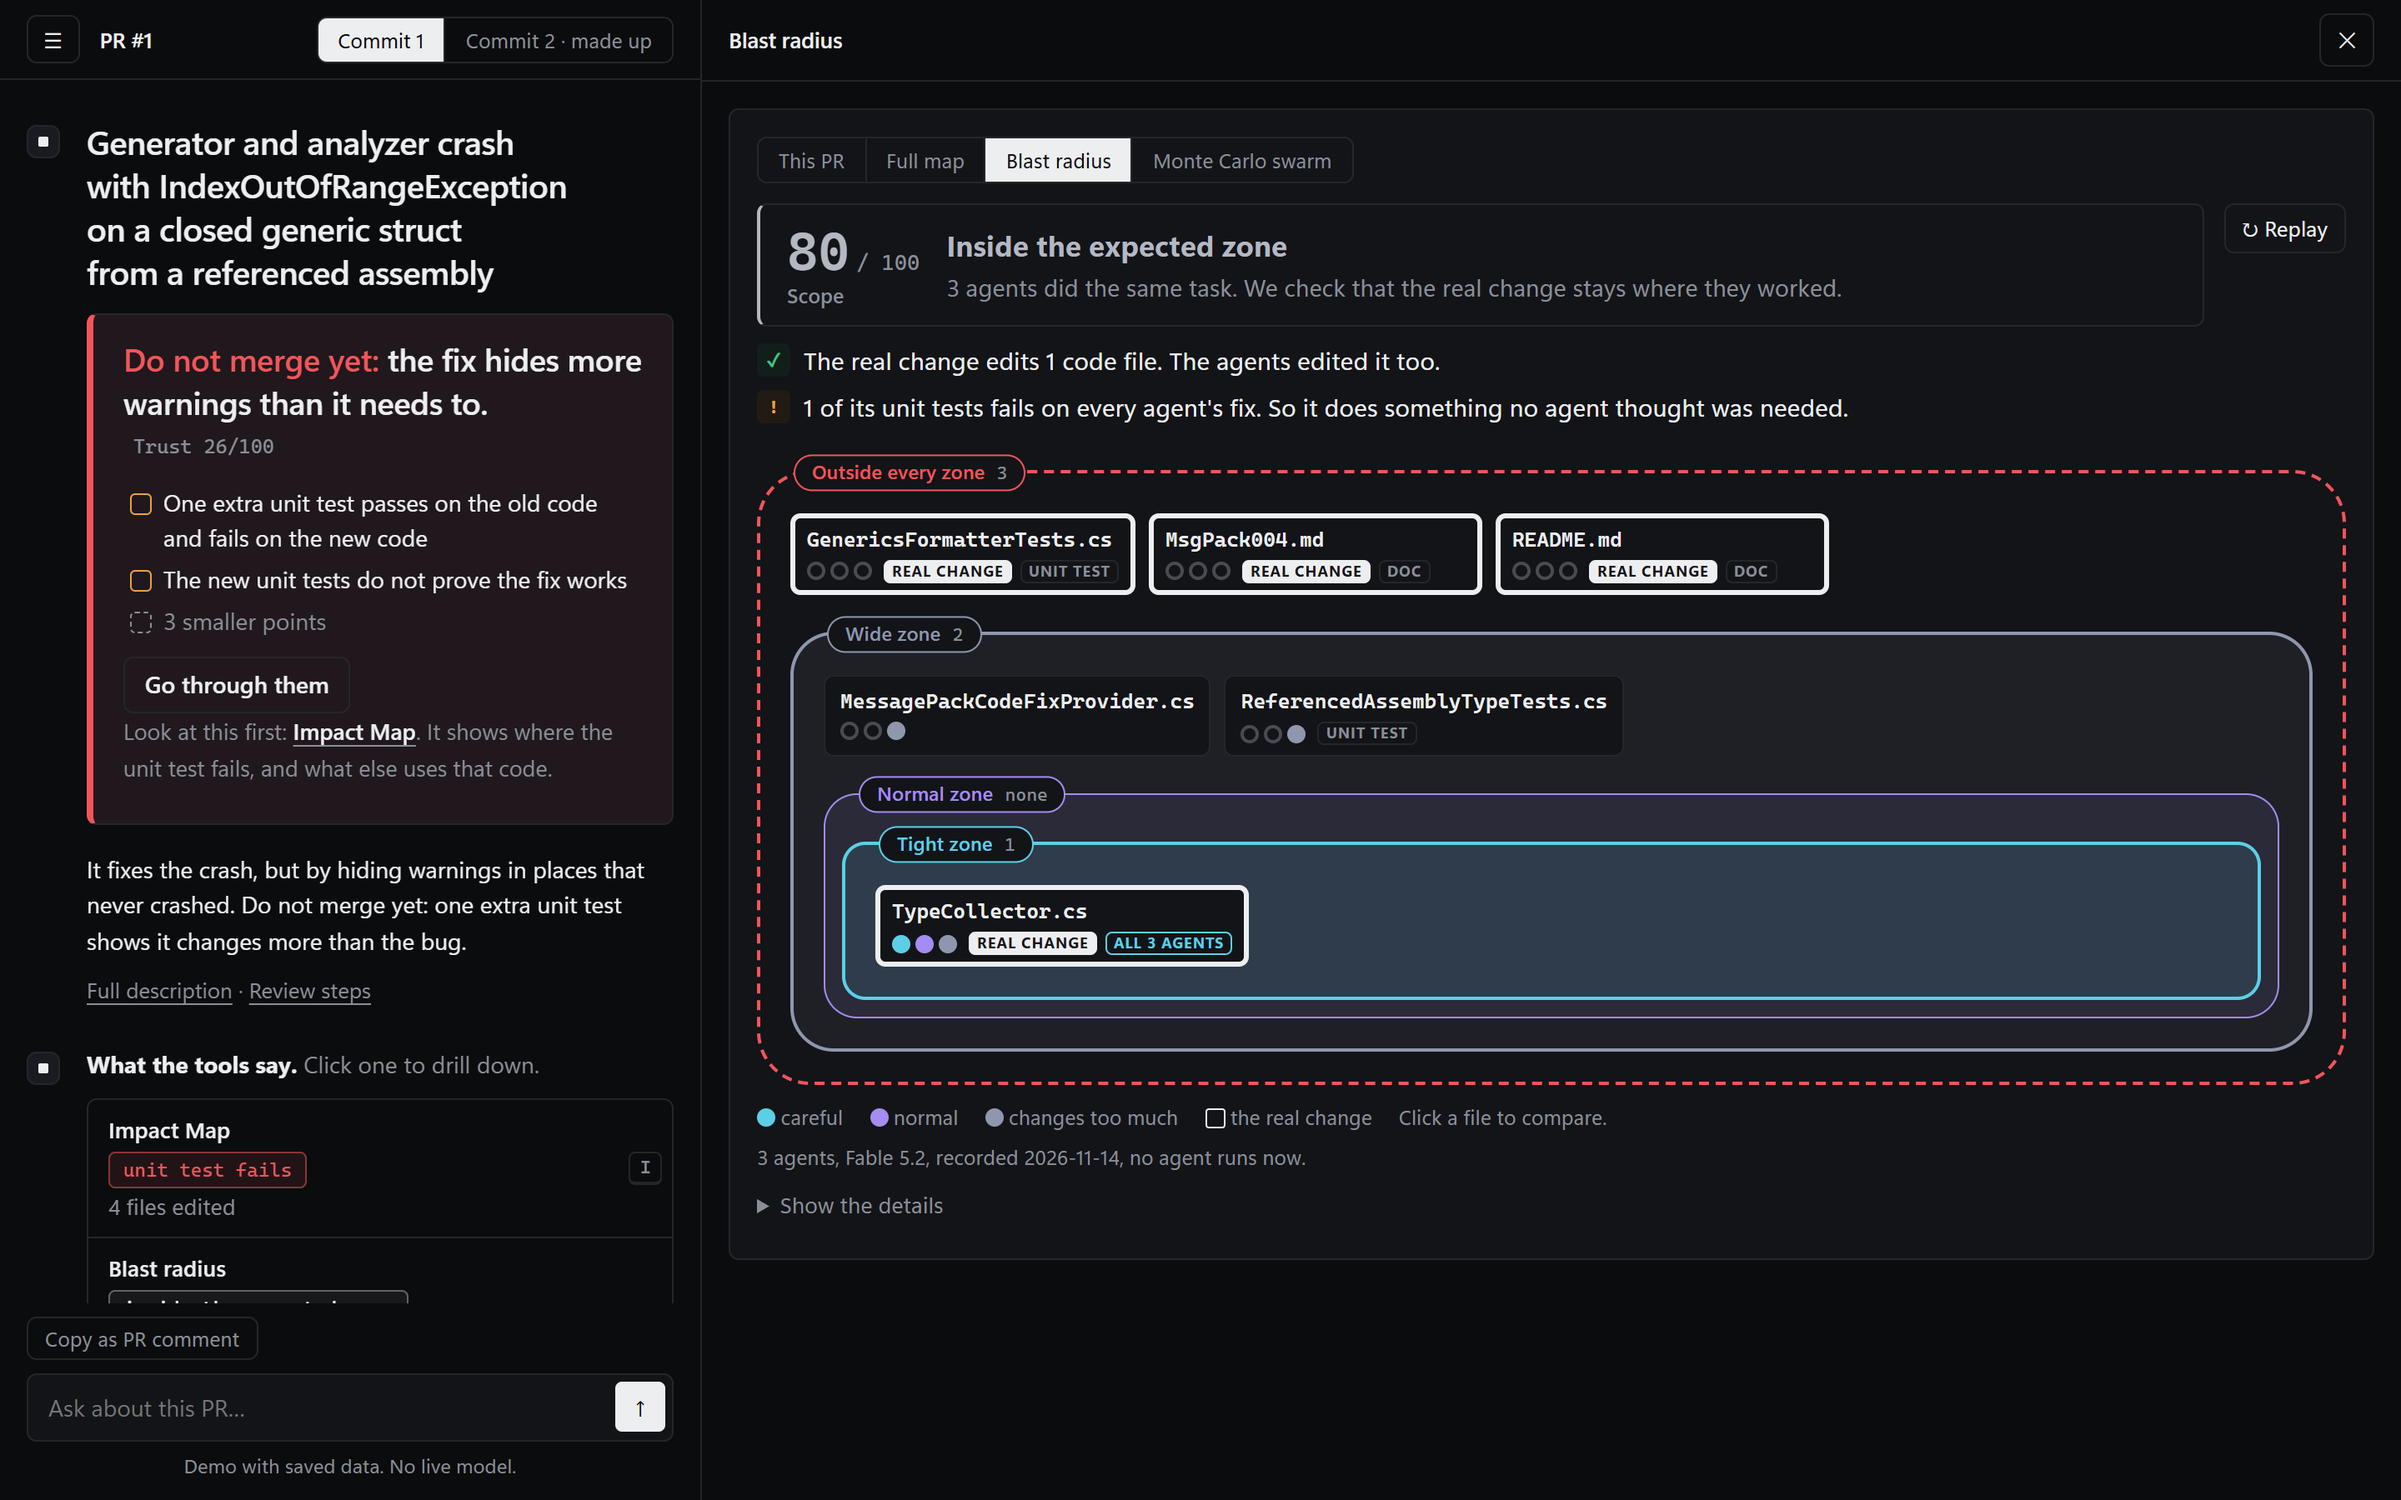
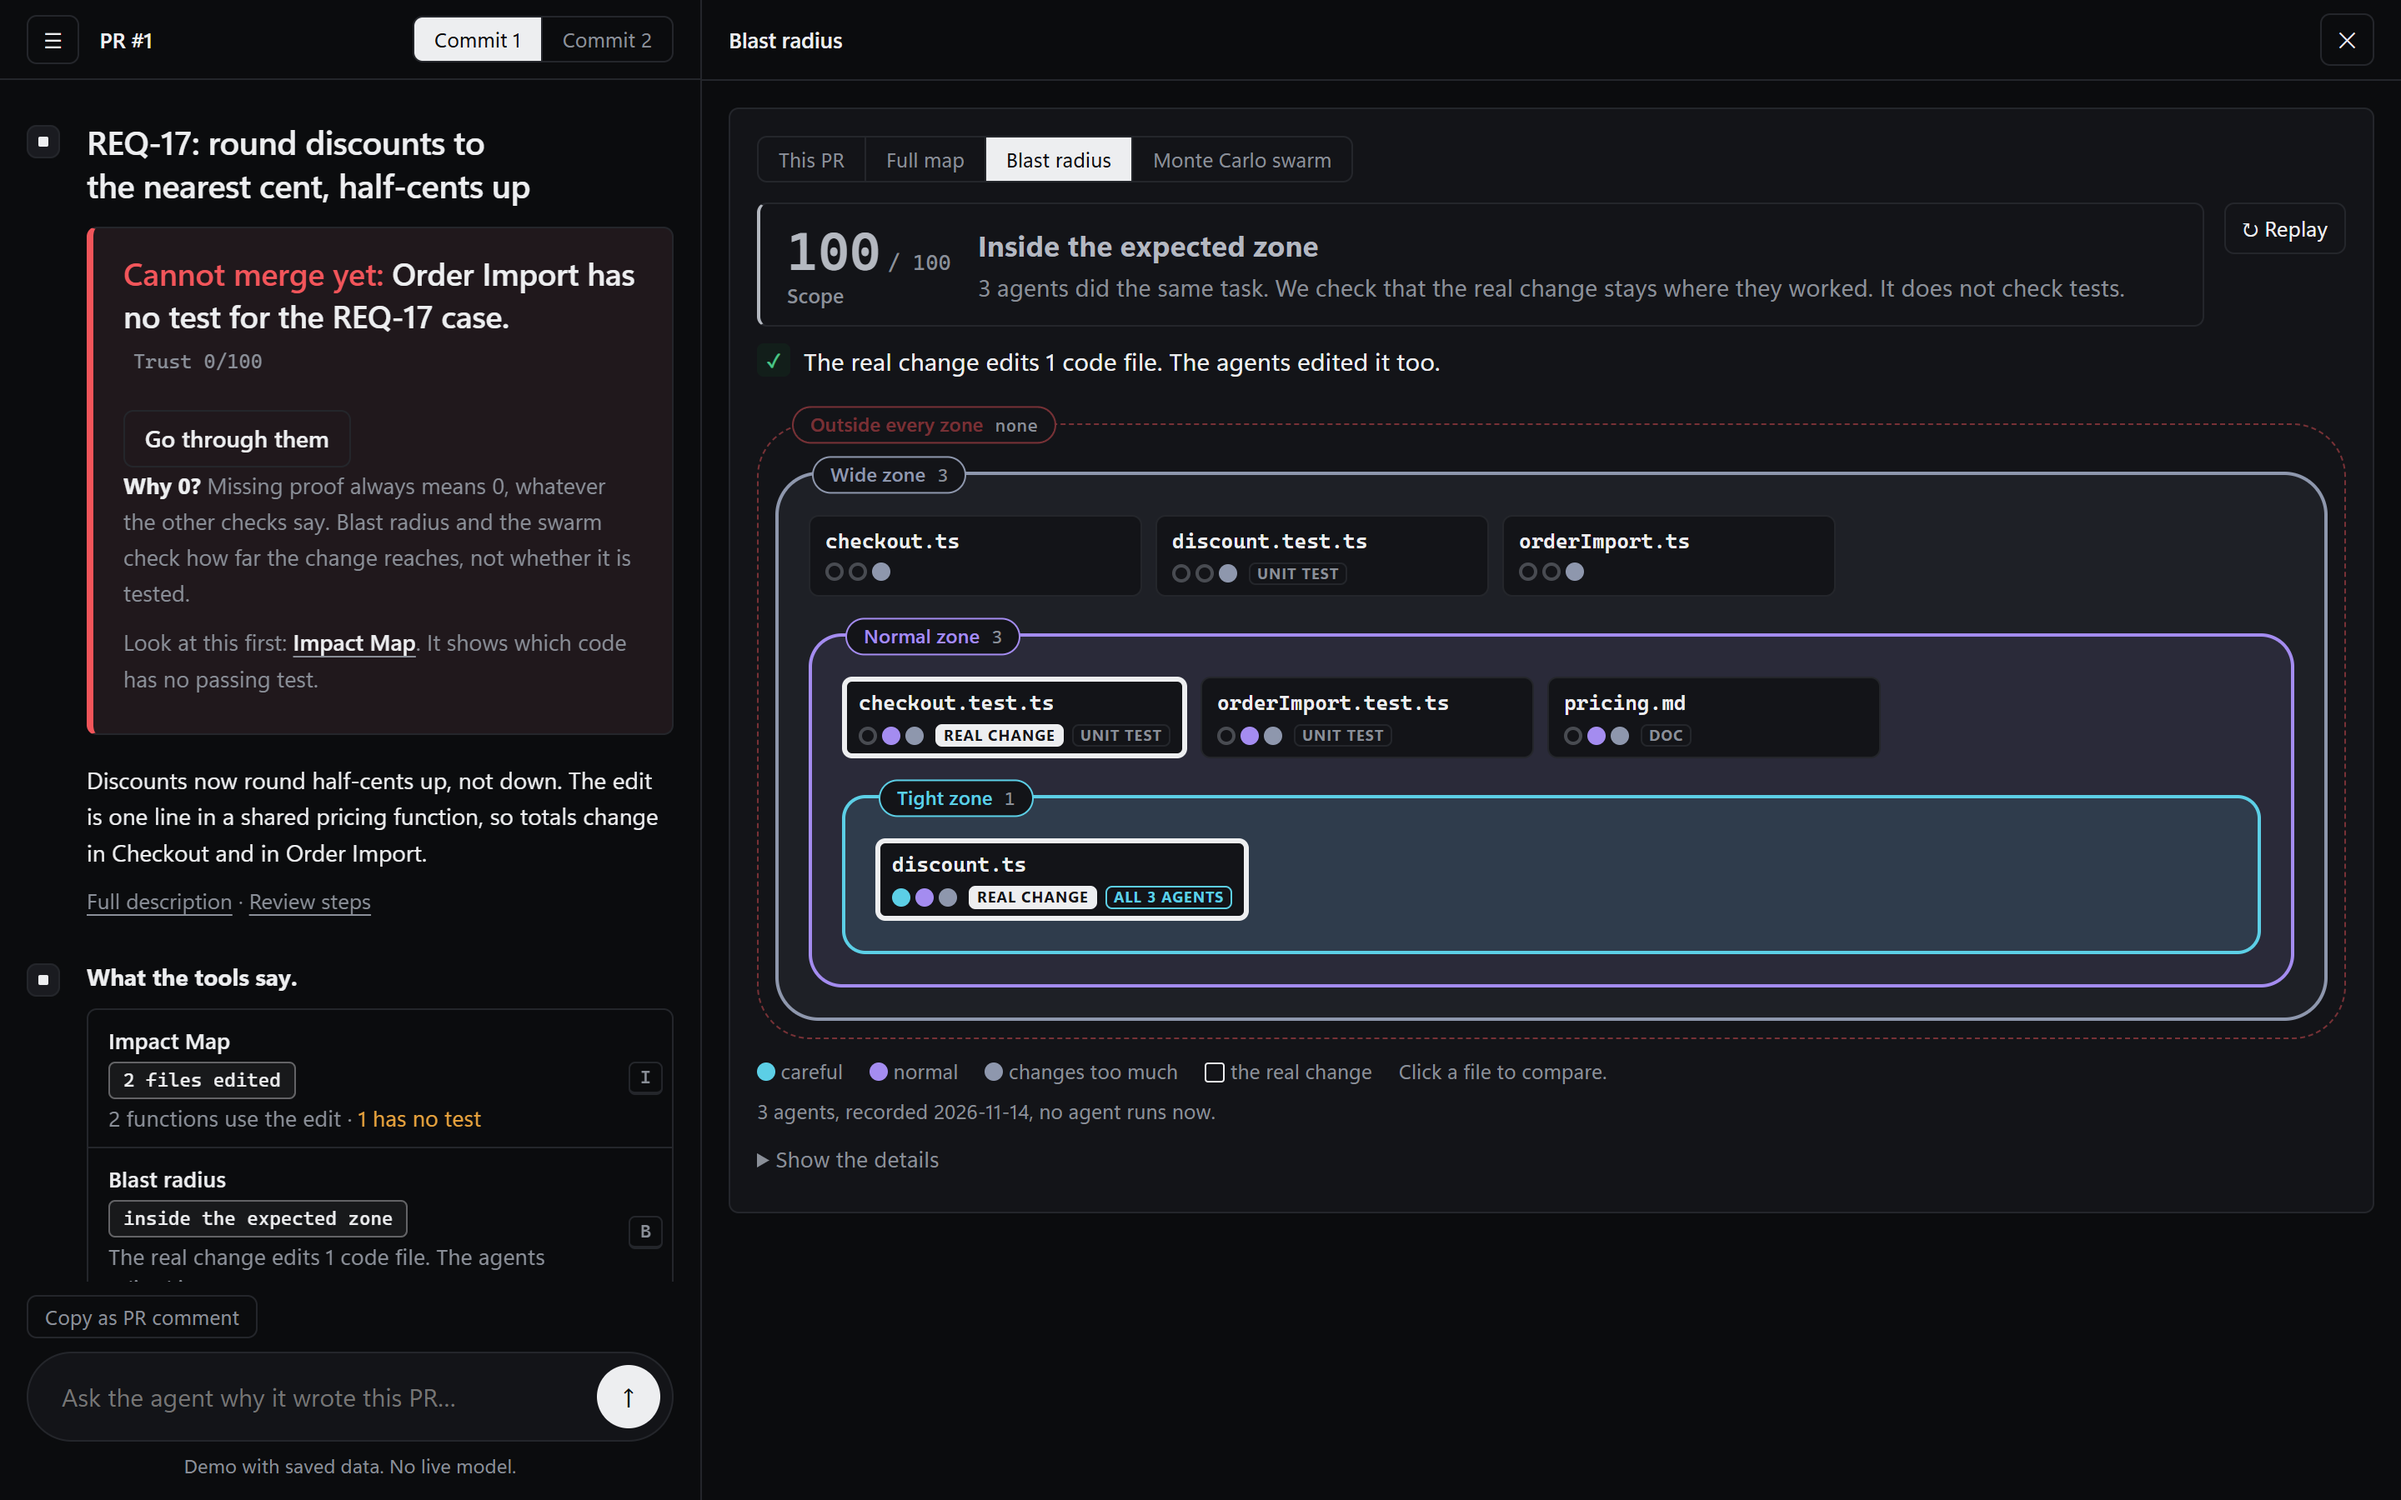
README: current screenshots, the Impact Map and Reach

diff --git a/README.md b/README.md
@@ -28,7 +28,9 @@ and four real AI-written pull requests from Tieto's C# sample repository (Messag
 
 ![The review: a verdict, then what each tool found](docs/img/review.png)
 
-![Impact Map: the edited function, who calls it, and which caller has no test](docs/img/impact-map.png)
+![Impact Map: the edited function, the code around it, and which caller has no test](docs/img/impact-map.png)
+
+![Reach: the code that uses the edit, in rings by how many calls away, untested in amber](docs/img/reach.png)
 
 ![Blast radius: the real change laid over where three agents worked](docs/img/blast-radius.png)
 
